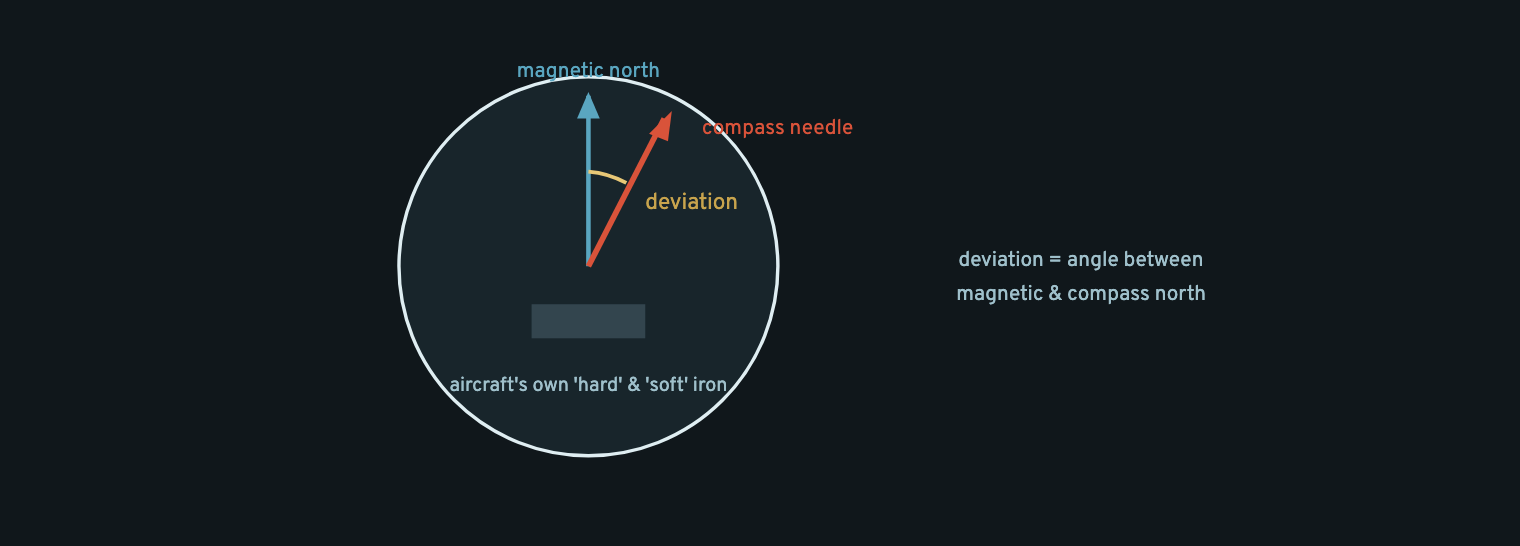
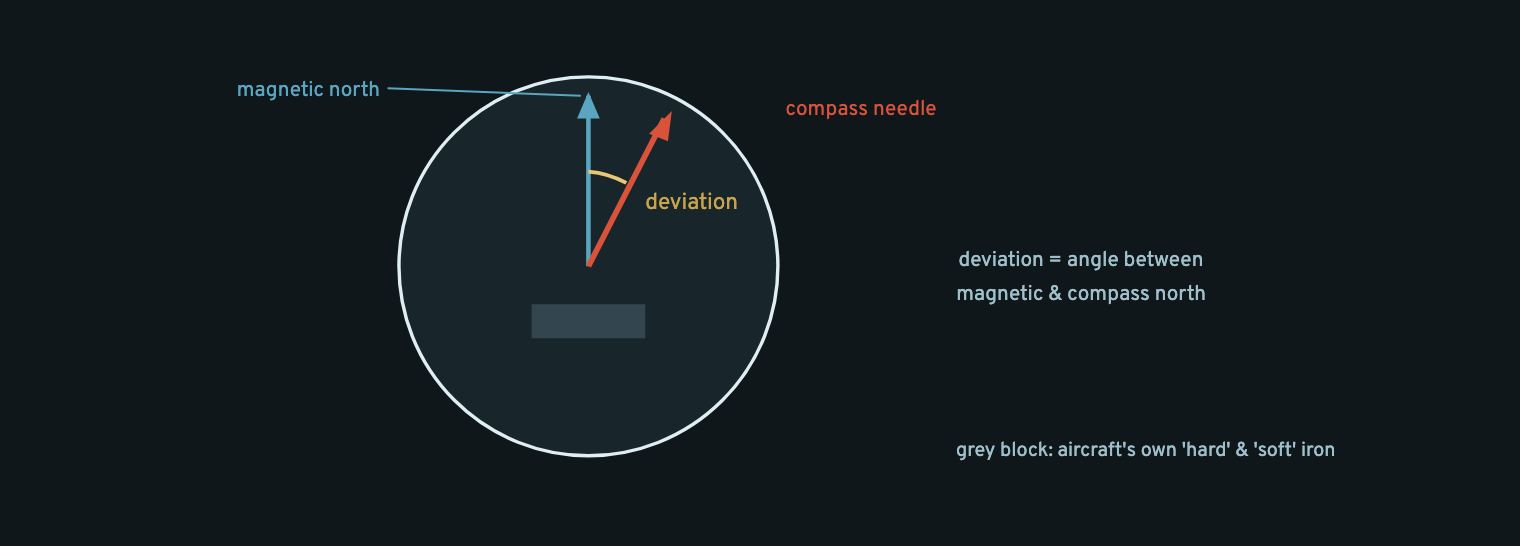
Figure QA: fix 3 cropped figures, label overlaps, unsupported glyphs, magnet field arrows and non-linear scale caption

diff --git a/illustrations/instruments-gallery.html b/illustrations/instruments-gallery.html
@@ -89,7 +89,7 @@
               t.textContent=i*10;g.appendChild(t);}}})();
         </script>
         <line x1="200" y1="150" x2="250" y2="95" stroke="var(--gold)" stroke-width="3"/><circle cx="200" cy="150" r="6" fill="var(--chart-ink)"/>
-        <text x="200" y="285" text-anchor="middle" font-family="Overpass,sans-serif" font-size="12" fill="var(--chart-ink-dim)">crowded at the low end, spread at the high end</text>
+        <text x="200" y="285" text-anchor="middle" font-family="Overpass,sans-serif" font-size="12" fill="var(--chart-ink-dim)">spread at the low end, crowded at the high end</text>
       </svg>
     </div>
     <p class="cap"><b>Non-linear scale</b> — the graduations are <b>unevenly spaced</b>, because the instrument's mechanism responds non-linearly to the quantity. The classic example is the <b>airspeed indicator</b>, which measures dynamic pressure proportional to the <b>square</b> of the speed: the low speeds are cramped together near the start and the high speeds spread out, so an ASI reads coarsely at the bottom of its range and finely at the top.</p>
@@ -517,7 +517,7 @@
     <h2>Gyro Rotor in Gimbals</h2>
     <div class="meta"><span class="tag">fig_11_04</span><span class="tag ok">Original redraw</span></div>
     <div class="stage">
-      <svg viewBox="0 0 760 300" role="img" aria-label="A spinning rotor carried in an inner and an outer gimbal, giving it freedom in two planes">
+      <svg viewBox="0 0 760 350" role="img" aria-label="A spinning rotor carried in an inner and an outer gimbal, giving it freedom in two planes"><g transform="translate(0 16)">
         <!-- outer gimbal -->
         <ellipse cx="380" cy="150" rx="150" ry="150" fill="none" stroke="var(--steel)" stroke-width="5"/>
         <circle cx="230" cy="150" r="5" fill="var(--steel)"/><circle cx="530" cy="150" r="5" fill="var(--steel)"/>
@@ -528,12 +528,12 @@
         <ellipse cx="380" cy="150" rx="26" ry="70" fill="var(--chart-ground-3)" stroke="var(--chart-ink)" stroke-width="2"/>
         <line x1="380" y1="70" x2="380" y2="230" stroke="var(--chart-ink-dim)" stroke-width="3"/>
         <g stroke="var(--chart-ink-dim)" stroke-width="1.4"><path d="M365,120 a40,40 0 0 1 30,0" fill="none"/><path d="M395,180 a40,40 0 0 1 -30,0" fill="none"/></g>
-        <text x="380" y="150" text-anchor="middle" font-family="Overpass,sans-serif" font-size="10" fill="var(--chart-ink-dim)">spin axis</text>
+        <text x="414" y="154" font-family="Overpass,sans-serif" font-size="10.5" font-weight="700" fill="var(--chart-ink-dim)">spin axis</text>
         <!-- labels, placed clear of the rings -->
-        <text x="640" y="150" text-anchor="middle" font-family="Overpass,sans-serif" font-size="11.5" fill="var(--steel)">outer gimbal</text>
+        <text x="640" y="150" text-anchor="middle" font-family="Overpass,sans-serif" font-size="11.5" fill="var(--chart-ink-dim)" font-weight="700">outer gimbal</text>
         <text x="670" y="150" text-anchor="middle" font-family="Overpass,sans-serif" font-size="11.5" fill="var(--steel)" transform="translate(0,20)"> </text>
-        <text x="380" y="286" text-anchor="middle" font-family="Overpass,sans-serif" font-size="11.5" fill="var(--gold-deep)">inner gimbal · two axes of freedom</text>
-      </svg>
+        <text x="380" y="322" text-anchor="middle" font-family="Overpass,sans-serif" font-size="11.5" fill="var(--gold-deep)">inner gimbal, two axes of freedom</text>
+      </g></svg>
     </div>
     <p class="cap"><b>Gyro in gimbals</b> — a gyroscope is a rotor spun at high speed and carried in a set of pivoted rings (<b>gimbals</b>) so the spin axis is free to hold its direction while the aircraft moves around it. The rotor sits in the <b>inner gimbal</b>, which pivots inside the <b>outer gimbal</b>, which pivots in the case — giving the spin axis <b>freedom in two planes</b>. This mounting, plus the rotor's mass and speed, gives the two properties every gyro instrument lives on: <b>rigidity</b> (it stays pointing where it was set) and <b>precession</b>.</p>
   </section>
@@ -554,7 +554,7 @@
         <text x="300" y="22" text-anchor="middle" font-family="Overpass,sans-serif" font-size="11.5" fill="var(--hot)">applied force (torque)</text>
         <!-- result: precession 90 round -->
         <line x1="348" y1="150" x2="470" y2="150" stroke="var(--gold)" stroke-width="4"/><path d="M462,144 L476,150 L462,156" fill="var(--gold)"/>
-        <text x="520" y="150" text-anchor="middle" font-family="Overpass,sans-serif" font-size="12" font-weight="600" fill="var(--gold-deep)">precesses 90° round</text>
+        <text x="590" y="150" text-anchor="middle" font-family="Overpass,sans-serif" font-size="12" font-weight="600" fill="var(--gold-deep)">precesses 90° round</text>
         <text x="520" y="170" text-anchor="middle" font-family="Overpass,sans-serif" font-size="10.5" fill="var(--chart-ink-dim)">in the direction of spin</text>
       </svg>
     </div>
@@ -571,13 +571,13 @@
         <circle cx="260" cy="160" r="110" fill="var(--chart-ground-3)" stroke="var(--chart-ink)" stroke-width="1.8"/>
         <line x1="260" y1="40" x2="260" y2="280" stroke="var(--chart-line-2)" stroke-width="1" stroke-dasharray="4 4"/>
         <path d="M300,55 a110,110 0 0 1 20,30" fill="none" stroke="var(--cool)" stroke-width="2"/><path d="M314,80 l8,8 l-12,2 Z" fill="var(--cool)"/>
-        <text x="330" y="52" font-family="Overpass,sans-serif" font-size="11" fill="var(--cool)">Earth rotates</text>
+        <text x="352" y="40" font-family="Overpass,sans-serif" font-size="11" fill="var(--cool)">Earth rotates</text>
         <!-- gyro fixed in space (two positions, same direction arrows) -->
         <g stroke="var(--gold)" stroke-width="3"><line x1="200" y1="110" x2="260" y2="110"/><line x1="470" y1="110" x2="530" y2="110"/></g>
         <path d="M252,105 L264,110 L252,115" fill="var(--gold)"/><path d="M522,105 L534,110 L522,115" fill="var(--gold)"/>
-        <text x="200" y="100" font-family="Overpass,sans-serif" font-size="10.5" fill="var(--gold-deep)">gyro axis — fixed in space</text>
+        <text x="40" y="34" font-family="Overpass,sans-serif" font-size="10.5" fill="var(--gold-deep)">gyro axis — fixed in space</text>
         <text x="470" y="100" font-family="Overpass,sans-serif" font-size="10.5" fill="var(--gold-deep)">same direction, later</text>
-        <text x="490" y="250" text-anchor="middle" font-family="Overpass,sans-serif" font-size="11" fill="var(--chart-ink-dim)">so relative to the ground it appears to drift (15°/hr × sin lat)</text>
+        <text x="530" y="250" text-anchor="middle" font-family="Overpass,sans-serif" font-size="11" fill="var(--chart-ink-dim)">so relative to the ground it appears to drift (15°/hr × sin lat)</text>
       </svg>
     </div>
     <p class="cap"><b>Apparent wander</b> — a free gyro's rigidity holds its axis fixed <b>in space</b>, not relative to the Earth. Because the Earth is turning underneath it, an observer on the ground sees the axis slowly <b>drift</b> even though the gyro itself has not moved. This <b>Earth-rate</b> drift is greatest at the poles and zero at the equator, following 15°/hour × sine of the latitude. Directional gyros are given a latitude-nut correction (or are tied to a magnetic reference) to cancel it.</p>
@@ -596,7 +596,7 @@
         <path d="M300,66 C360,40 430,44 480,78" fill="none" stroke="var(--hot)" stroke-width="2" stroke-dasharray="5 3"/><path d="M472,72 L484,80 L470,84 Z" fill="var(--hot)"/>
         <text x="250" y="40" font-family="Overpass,sans-serif" font-size="10.5" fill="var(--gold-deep)">start</text>
         <text x="500" y="56" font-family="Overpass,sans-serif" font-size="10.5" fill="var(--gold-deep)">after flying east</text>
-        <text x="380" y="266" text-anchor="middle" font-family="Overpass,sans-serif" font-size="11" fill="var(--chart-ink-dim)">the local vertical &amp; meridian change along the route → apparent wander</text>
+        <text x="545" y="220" font-family="Overpass,sans-serif" font-size="11" fill="var(--chart-ink-dim)">the local vertical &amp;</text><text x="545" y="236" font-family="Overpass,sans-serif" font-size="11" fill="var(--chart-ink-dim)">meridian change along</text><text x="545" y="252" font-family="Overpass,sans-serif" font-size="11" fill="var(--chart-ink-dim)">the route → apparent wander</text>
       </svg>
     </div>
     <p class="cap"><b>Transport wander</b> — carrying the gyro across the curved Earth is the second source of apparent wander. As the aircraft flies over the surface, the <b>local vertical and the local meridian change direction</b> underneath the (space-rigid) gyro, so its axis appears to wander relative to the new local references. It depends on groundspeed and track and, for a directional gyro, on the change of longitude. Together with Earth-rate drift it is why a DGI must be <b>re-synchronised to the compass</b> regularly.</p>
@@ -612,7 +612,7 @@
         <ellipse cx="300" cy="150" rx="90" ry="40" fill="none" stroke="var(--steel)" stroke-width="4"/>
         <ellipse cx="300" cy="150" rx="26" ry="70" fill="var(--chart-ground-3)" stroke="var(--chart-ink)" stroke-width="2"/>
         <line x1="210" y1="150" x2="390" y2="150" stroke="var(--chart-ink-dim)" stroke-width="3"/>
-        <text x="300" y="138" text-anchor="middle" font-family="Overpass,sans-serif" font-size="10" fill="var(--chart-ink-dim)">horizontal spin axis</text>
+        <text x="190" y="154" text-anchor="end" font-family="Overpass,sans-serif" font-size="10.5" font-weight="700" fill="var(--chart-ink-dim)">horizontal spin axis</text>
         <!-- heading card -->
         <rect x="520" y="90" width="150" height="120" rx="8" fill="var(--chart-ground-3)" stroke="var(--chart-ink)" stroke-width="1.8"/>
         <text x="595" y="110" text-anchor="middle" font-family="Overpass,sans-serif" font-size="13" fill="var(--chart-ink)">N</text>
@@ -693,11 +693,11 @@
         <!-- vertical-axis rotor -->
         <ellipse cx="300" cy="150" rx="70" ry="26" fill="var(--chart-ground-3)" stroke="var(--chart-ink)" stroke-width="2"/>
         <line x1="300" y1="70" x2="300" y2="150" stroke="var(--chart-ink-dim)" stroke-width="3"/>
-        <text x="300" y="60" text-anchor="middle" font-family="Overpass,sans-serif" font-size="10.5" fill="var(--chart-ink-dim)">vertical spin axis</text>
+        <text x="470" y="60" font-family="Overpass,sans-serif" font-size="10.5" font-weight="700" fill="var(--chart-ink-dim)">vertical spin axis</text><line x1="466" y1="56" x2="306" y2="64" stroke="var(--chart-ink-dim)" stroke-width="1"/>
         <!-- gimbal rings -->
         <ellipse cx="300" cy="150" rx="110" ry="100" fill="none" stroke="var(--gold-deep)" stroke-width="3"/>
         <ellipse cx="300" cy="150" rx="150" ry="130" fill="none" stroke="var(--steel)" stroke-width="3"/>
-        <text x="300" y="286" text-anchor="middle" font-family="Overpass,sans-serif" font-size="11" fill="var(--gold-deep)">gimbals follow pitch &amp; roll about the stable rotor</text>
+        <text x="590" y="280" text-anchor="middle" font-family="Overpass,sans-serif" font-size="11" fill="var(--gold-deep)">gimbals follow pitch &amp; roll</text><text x="590" y="296" text-anchor="middle" font-family="Overpass,sans-serif" font-size="11" fill="var(--gold-deep)">about the stable rotor</text>
         <!-- linkage to horizon bar -->
         <path d="M410,150 L520,150" stroke="var(--steel)" stroke-width="3"/>
         <rect x="520" y="90" width="150" height="120" rx="6" fill="var(--chart-ground-3)" stroke="var(--chart-ink)" stroke-width="1.6"/>
@@ -744,7 +744,7 @@
         <!-- fixed wall + calibrated spring restraining the gimbal -->
         <line x1="92" y1="60" x2="92" y2="150" stroke="var(--chart-line-2)" stroke-width="4"/>
         <path d="M92,96 l12,-9 l16,18 l16,-18 l16,18 l16,-18 l16,18 l10,-9" fill="none" stroke="var(--cool)" stroke-width="2.2"/>
-        <text x="150" y="80" font-family="Overpass,sans-serif" font-size="11" fill="var(--cool)">calibrated spring</text>
+        <text x="96" y="58" font-family="Overpass,sans-serif" font-size="11" font-weight="700" fill="var(--cool)">calibrated spring</text>
         <!-- single gimbal frame -->
         <rect x="210" y="58" width="160" height="166" rx="6" fill="none" stroke="var(--gold-deep)" stroke-width="5"/>
         <circle cx="290" cy="58" r="5" fill="var(--gold-deep)"/><circle cx="290" cy="224" r="5" fill="var(--gold-deep)"/>
@@ -769,7 +769,7 @@
         <line x1="290" y1="244" x2="330" y2="306" stroke="var(--gold)" stroke-width="3"/><circle cx="290" cy="244" r="4" fill="var(--chart-ink)"/>
         <text x="232" y="300" font-family="Overpass,sans-serif" font-size="12" font-weight="600" fill="var(--chart-ink-dim)">L</text>
         <text x="352" y="300" font-family="Overpass,sans-serif" font-size="12" font-weight="600" fill="var(--chart-ink-dim)">R</text>
-        <text x="560" y="312" text-anchor="middle" font-family="Overpass,sans-serif" font-size="10.5" fill="var(--chart-ink-dim)">deflection ∝ rate of turn (rate one = 3°/s)</text>
+        <text x="560" y="312" text-anchor="middle" font-family="Overpass,sans-serif" font-size="10.5" fill="var(--chart-ink-dim)">deflection proportional to rate of turn (rate one = 3°/s)</text>
       </svg>
     </div>
     <p class="cap"><b>Turn indicator</b> — a <b>rate gyro</b> that measures how fast the aircraft is yawing. The rotor is carried on a <b>single gimbal</b> restrained by a <b>spring</b>; when the aircraft turns, the yaw precesses the gyro against the spring until the spring force balances the precession. The gimbal angle — and so the needle deflection — is therefore <b>proportional to the rate of turn</b>, calibrated so a standard "rate one" turn (3° per second, a full 360° in two minutes) reads at the marked index. A separate balance ball shows slip or skid.</p>
@@ -792,11 +792,11 @@
           <path d="M330,130 C280,30 480,30 430,130"/>
           <path d="M330,170 C300,240 460,240 430,170"/>
           <path d="M330,170 C280,270 480,270 430,170"/>
-          <path d="M330,150 C230,150 230,150 150,150"/>
-          <path d="M430,150 C530,150 530,150 610,150"/>
+          <path d="M300,150 L150,150"/>
+          <path d="M460,150 L610,150"/>
         </g>
         <!-- direction arrows (out of N) -->
-        <g fill="var(--cool)"><path d="M375,46 l12,4 l-9,8 Z"/><path d="M200,144 l-12,6 l2,-14 Z"/><path d="M560,144 l12,6 l-2,-14 Z"/></g>
+        <g fill="var(--cool)"><path d="M375,46 l12,4 l-9,8 Z"/><path d="M190,150 l12,-6 l0,12 Z"/><path d="M560,150 l12,-6 l0,12 Z"/></g>
         <text x="380" y="292" text-anchor="middle" font-family="Overpass,sans-serif" font-size="11" fill="var(--chart-ink-dim)">lines of force leave the N pole, loop round and enter the S pole</text>
       </svg>
     </div>
@@ -864,7 +864,7 @@
         <text x="160" y="166" text-anchor="end" font-family="Overpass,sans-serif" font-size="10" fill="var(--cool)">(400 Hz AC in)</text>
         <!-- secondary winding (red) around the legs -->
         <g stroke="var(--hot)" stroke-width="2.2" fill="none"><path d="M360,70 q20,-8 40,0 q-20,16 -40,0 M360,94 q20,-8 40,0 q-20,16 -40,0 M360,118 q20,-8 40,0 q-20,16 -40,0 M360,142 q20,-8 40,0 q-20,16 -40,0 M360,166 q20,-8 40,0 q-20,16 -40,0"/></g>
-        <text x="420" y="150" font-family="Overpass,sans-serif" font-size="11" fill="var(--hot)">secondary (output ∝ heading)</text>
+        <text x="420" y="150" font-family="Overpass,sans-serif" font-size="11" fill="var(--hot)">secondary (output follows heading)</text>
         <!-- Earth field arrow -->
         <g stroke="var(--gold)" stroke-width="2.4" fill="none"><line x1="150" y1="230" x2="590" y2="230"/><path d="M582,225 L594,230 L582,235" fill="var(--gold)" stroke="none"/></g>
         <text x="300" y="250" text-anchor="middle" font-family="Overpass,sans-serif" font-size="11" fill="var(--gold-deep)">Earth's horizontal field threads the legs</text>
@@ -884,7 +884,7 @@
         <path d="M90,120 C180,40 270,40 360,120 C450,200 540,200 630,120 C660,96 680,88 700,84" fill="none" stroke="var(--hot)" stroke-width="2.6"/>
         <!-- null points -->
         <circle cx="90" cy="120" r="4" fill="var(--cool)"/><circle cx="360" cy="120" r="4" fill="var(--cool)"/><circle cx="630" cy="120" r="4" fill="var(--cool)"/>
-        <text x="360" y="150" text-anchor="middle" font-family="Overpass,sans-serif" font-size="10" fill="var(--cool)">null (one heading)</text>
+        <text x="360" y="174" text-anchor="middle" font-family="Overpass,sans-serif" font-size="10" fill="var(--cool)">null (one heading)</text>
         <text x="58" y="80" text-anchor="middle" font-family="Overpass,sans-serif" font-size="12" fill="var(--chart-ink-dim)" transform="rotate(-90 58 80)">signal</text>
         <text x="395" y="222" text-anchor="middle" font-family="Overpass,sans-serif" font-size="12" fill="var(--chart-ink-dim)">heading (0° → 360°)</text>
       </svg>
@@ -900,14 +900,14 @@
       <svg viewBox="0 0 760 260" role="img" aria-label="The aircraft's own magnetism deflecting the compass needle away from magnetic north">
         <circle cx="300" cy="130" r="100" fill="var(--chart-ground-3)" stroke="var(--chart-ink)" stroke-width="1.8"/>
         <!-- magnetic north direction -->
-        <line x1="300" y1="130" x2="300" y2="40" stroke="var(--cool)" stroke-width="2.4"/><path d="M294,52 L300,38 L306,52" fill="var(--cool)"/><text x="300" y="30" text-anchor="middle" font-family="Overpass,sans-serif" font-size="11" fill="var(--cool)">magnetic north</text>
+        <line x1="300" y1="130" x2="300" y2="40" stroke="var(--cool)" stroke-width="2.4"/><path d="M294,52 L300,38 L306,52" fill="var(--cool)"/><text x="190" y="40" text-anchor="end" font-family="Overpass,sans-serif" font-size="11" fill="var(--cool)">magnetic north</text><line x1="194" y1="36" x2="296" y2="40" stroke="var(--cool)" stroke-width="1"/>
         <!-- compass needle deflected -->
         <line x1="300" y1="130" x2="340" y2="52" stroke="var(--hot)" stroke-width="3"/><path d="M332,60 L344,48 L342,64 Z" fill="var(--hot)"/>
-        <text x="360" y="60" font-family="Overpass,sans-serif" font-size="11" fill="var(--hot)">compass needle</text>
+        <text x="404" y="50" font-family="Overpass,sans-serif" font-size="11" fill="var(--hot)">compass needle</text>
         <!-- deviation angle -->
         <path d="M300,80 a50,50 0 0 1 20,6" fill="none" stroke="var(--gold)" stroke-width="2"/><text x="330" y="100" font-family="Overpass,sans-serif" font-size="12" fill="var(--gold-deep)">deviation</text>
         <!-- aircraft magnetism source -->
-        <rect x="270" y="150" width="60" height="18" fill="var(--steel)"/><text x="300" y="196" text-anchor="middle" font-family="Overpass,sans-serif" font-size="10.5" fill="var(--chart-ink-dim)">aircraft's own 'hard' &amp; 'soft' iron</text>
+        <rect x="270" y="150" width="60" height="18" fill="var(--steel)"/><text x="494" y="230" font-family="Overpass,sans-serif" font-size="10.5" fill="var(--chart-ink-dim)">grey block: aircraft's own 'hard' &amp; 'soft' iron</text>
         <text x="560" y="130" text-anchor="middle" font-family="Overpass,sans-serif" font-size="11" fill="var(--chart-ink-dim)">deviation = angle between</text>
         <text x="560" y="148" text-anchor="middle" font-family="Overpass,sans-serif" font-size="11" fill="var(--chart-ink-dim)">magnetic &amp; compass north</text>
       </svg>
@@ -1010,7 +1010,7 @@
         <line x1="300" y1="190" x2="300" y2="60" stroke="var(--gold)" stroke-width="2.4"/><text x="300" y="50" text-anchor="middle" font-family="Overpass,sans-serif" font-size="10.5" fill="var(--gold-deep)">correct datum (vertical)</text>
         <!-- erection force -->
         <g stroke="var(--hot)" stroke-width="3" fill="none"><line x1="260" y1="110" x2="330" y2="110"/><path d="M322,105 L334,110 L322,115" fill="var(--hot)" stroke="none"/></g>
-        <text x="200" y="110" font-family="Overpass,sans-serif" font-size="11" fill="var(--hot)">erection force</text>
+        <text x="150" y="110" font-family="Overpass,sans-serif" font-size="11" fill="var(--hot)">erection force</text>
         <!-- precession result -->
         <path d="M360,70 q30,30 0,60" fill="none" stroke="var(--cool)" stroke-width="2.2"/><path d="M356,126 l6,12 l-14,2 Z" fill="var(--cool)"/>
         <text x="400" y="140" font-family="Overpass,sans-serif" font-size="11" fill="var(--cool)">precesses 90° → back to datum</text>

diff --git a/illustrations/ins7-gallery.html b/illustrations/ins7-gallery.html
@@ -1265,22 +1265,22 @@
     <h2>Bourdon-Tube Pressure Gauge</h2>
     <div class="meta"><span class="tag">fig_38_17</span><span class="tag ok">Original redraw</span></div>
     <div class="stage">
-      <svg viewBox="0 0 760 300" role="img" aria-label="A curved flattened Bourdon tube that straightens under pressure, moving a quadrant and pinion that turn the pointer">
-        <path d="M200,240 A120,120 0 1 1 320,120" stroke="var(--gold)" stroke-width="10" fill="none"/>
-        <path d="M200,240 A120,120 0 1 1 320,120" stroke="#10171b" stroke-width="4" fill="none"/>
-        <line x1="200.0" y1="240.0" x2="200.0" y2="280.0" stroke="var(--cool)" stroke-width="6"/>
-        <text x="210.0" y="290.0" font-family="Overpass,sans-serif" font-size="10" fill="var(--cool)" font-weight="700">pressure in</text>
-        <line x1="320.0" y1="120.0" x2="360.0" y2="150.0" stroke="var(--chart-ink)" stroke-width="2.4"/>
-        <path d="M360,150 L420,120 L420,180 Z" stroke="var(--chart-ink)" stroke-width="1.6" fill="var(--chart-ground-3)"/>
-        <circle cx="430.0" cy="150.0" r="8" fill="var(--steel)" stroke="var(--chart-ink)" stroke-width="1.6"/>
-        <line x1="430.0" y1="150.0" x2="500.0" y2="80.0" stroke="#ffffff" stroke-width="3"/>
-        <text x="176.0" y="100.0" font-family="Overpass,sans-serif" font-size="10.5" fill="var(--gold)" text-anchor="end" font-weight="700">oval-section tube</text>
-        <text x="400.0" y="210.0" font-family="Overpass,sans-serif" font-size="10" fill="var(--chart-ink)" text-anchor="middle" font-weight="700">quadrant and pinion</text>
-        <text x="510.0" y="76.0" font-family="Overpass,sans-serif" font-size="10" fill="var(--chart-ink)" font-weight="700">pointer</text>
-        <text x="540.0" y="140.0" font-family="Overpass,sans-serif" font-size="10" fill="var(--gold)" font-weight="700">Pressure straightens the</text>
-        <text x="540.0" y="154.0" font-family="Overpass,sans-serif" font-size="10" fill="var(--chart-ink-dim)">tube; the free end moves.</text>
-        <text x="540.0" y="168.0" font-family="Overpass,sans-serif" font-size="10" fill="var(--chart-ink-dim)">Used for oil and hydraulic</text>
-        <text x="540.0" y="182.0" font-family="Overpass,sans-serif" font-size="10" fill="var(--chart-ink-dim)">pressures.</text>
+      <svg viewBox="0 0 760 340" role="img" aria-label="A curved flattened Bourdon tube that straightens under pressure, moving a quadrant and pinion that turn the pointer">
+        <path d="M200,280 A120,120 0 1 1 320,160" stroke="var(--gold)" stroke-width="10" fill="none"/>
+        <path d="M200,280 A120,120 0 1 1 320,160" stroke="#10171b" stroke-width="4" fill="none"/>
+        <line x1="200.0" y1="280.0" x2="200.0" y2="316.0" stroke="var(--cool)" stroke-width="6"/>
+        <text x="210.0" y="328.0" font-family="Overpass,sans-serif" font-size="10" fill="var(--cool)" font-weight="700">pressure in</text>
+        <line x1="320.0" y1="160.0" x2="360.0" y2="190.0" stroke="var(--chart-ink)" stroke-width="2.4"/>
+        <path d="M360,190 L420,160 L420,220 Z" stroke="var(--chart-ink)" stroke-width="1.6" fill="var(--chart-ground-3)"/>
+        <circle cx="430.0" cy="190.0" r="8" fill="var(--steel)" stroke="var(--chart-ink)" stroke-width="1.6"/>
+        <line x1="430.0" y1="190.0" x2="500.0" y2="120.0" stroke="#ffffff" stroke-width="3"/>
+        <text x="70.0" y="140.0" font-family="Overpass,sans-serif" font-size="10.5" fill="var(--gold)" font-weight="700">oval-section tube</text>
+        <text x="400.0" y="250.0" font-family="Overpass,sans-serif" font-size="10" fill="var(--chart-ink)" text-anchor="middle" font-weight="700">quadrant and pinion</text>
+        <text x="510.0" y="116.0" font-family="Overpass,sans-serif" font-size="10" fill="var(--chart-ink)" font-weight="700">pointer</text>
+        <text x="540.0" y="180.0" font-family="Overpass,sans-serif" font-size="10" fill="var(--gold)" font-weight="700">Pressure straightens the</text>
+        <text x="540.0" y="194.0" font-family="Overpass,sans-serif" font-size="10" fill="var(--chart-ink-dim)">tube; the free end moves.</text>
+        <text x="540.0" y="208.0" font-family="Overpass,sans-serif" font-size="10" fill="var(--chart-ink-dim)">Used for oil and hydraulic</text>
+        <text x="540.0" y="222.0" font-family="Overpass,sans-serif" font-size="10" fill="var(--chart-ink-dim)">pressures.</text>
       </svg>
     </div>
     <p class="cap"><b>Measuring high pressures.</b> A <b>Bourdon tube</b> is a curved tube of <b>oval (flattened) section</b>, sealed at the free end. Pressure inside tries to make the section round, which <b>straightens</b> the curve; the free end moves, and a <b>quadrant and pinion</b> magnify the motion to turn the pointer. It is robust and suits higher pressures — oil, hydraulic, oxygen — while capsules suit low pressures (manifold, altimeter). Measured relative to the case (gauge pressure).</p>

diff --git a/illustrations/el2-gallery.html b/illustrations/el2-gallery.html
@@ -1139,8 +1139,15 @@
         <circle cx="240.0" cy="170.0" r="34" fill="var(--steel)" stroke="var(--chart-ink)" stroke-width="1.6"/>
         <text x="240.0" y="174.0" font-family="Overpass,sans-serif" font-size="9" fill="var(--chart-ink)" text-anchor="middle">core</text>
         <rect x="186.0" y="124.0" width="108.0" height="92.0" rx="6" fill="none" stroke="var(--warm)" stroke-width="3"/>
-        <line x1="240.0" y1="170.0" x2="270.0" y2="20.0" stroke="#ffffff" stroke-width="2.4"/>
-        <path d="M120,20 A170,170 0 0 1 360,20" stroke="var(--chart-ink)" stroke-width="1.4" fill="none"/>
+        <path d="M134,64 A150,150 0 0 1 346,64" stroke="var(--chart-ink)" stroke-width="1.6" fill="none"/>
+        <line x1="133.9" y1="63.9" x2="141.0" y2="71.0" stroke="var(--chart-ink)" stroke-width="1.6"/>
+        <line x1="165.0" y1="40.1" x2="170.0" y2="48.8" stroke="var(--chart-ink)" stroke-width="1.6"/>
+        <line x1="201.2" y1="25.1" x2="203.8" y2="34.8" stroke="var(--chart-ink)" stroke-width="1.6"/>
+        <line x1="240.0" y1="20.0" x2="240.0" y2="30.0" stroke="var(--chart-ink)" stroke-width="1.6"/>
+        <line x1="278.8" y1="25.1" x2="276.2" y2="34.8" stroke="var(--chart-ink)" stroke-width="1.6"/>
+        <line x1="315.0" y1="40.1" x2="310.0" y2="48.8" stroke="var(--chart-ink)" stroke-width="1.6"/>
+        <line x1="346.1" y1="63.9" x2="339.0" y2="71.0" stroke="var(--chart-ink)" stroke-width="1.6"/>
+        <line x1="240.0" y1="170.0" x2="269.1" y2="33.1" stroke="#ffffff" stroke-width="2.4"/>
         <text x="390.0" y="70.0" font-family="Overpass,sans-serif" font-size="10" fill="var(--chart-ink)" font-weight="700">pointer over a linear scale</text>
         <path d="M230,222 q-6,6 0,12 q6,6 0,12 q-6,6 0,12" stroke="var(--gold)" stroke-width="1.6" fill="none"/>
         <text x="250.0" y="254.0" font-family="Overpass,sans-serif" font-size="9.5" fill="var(--gold)">hairspring</text>

diff --git a/illustrations/gen_ins7.py b/illustrations/gen_ins7.py
@@ -302,13 +302,13 @@ f.L(580, 140, 700, 140, 'cool', 4); f.T(700, 130, 'to the manifold', 10, 'cool',
 note(f, 420, 230, ['Engine stopped: reads ambient (≈ 30 inHg at MSL).'], first='ink')
 IN.append(f)
 
-f = I('38_17', 'Bourdon-Tube Pressure Gauge', 760, 300, 'A curved flattened Bourdon tube that straightens under pressure, moving a quadrant and pinion that turn the pointer',
+f = I('38_17', 'Bourdon-Tube Pressure Gauge', 760, 340, 'A curved flattened Bourdon tube that straightens under pressure, moving a quadrant and pinion that turn the pointer',
     '<b>Measuring high pressures.</b> A <b>Bourdon tube</b> is a curved tube of <b>oval (flattened) section</b>, sealed at the free end. Pressure inside tries to make the section round, which <b>straightens</b> the curve; the free end moves, and a <b>quadrant and pinion</b> magnify the motion to turn the pointer. It is robust and suits higher pressures — oil, hydraulic, oxygen — while capsules suit low pressures (manifold, altimeter). Measured relative to the case (gauge pressure).')
-f.P('M200,240 A120,120 0 1 1 320,120', 'gold', 10); f.P('M200,240 A120,120 0 1 1 320,120', '#10171b', 4)
-f.L(200, 240, 200, 280, 'cool', 6); f.T(210, 290, 'pressure in', 10, 'cool', bold=True)
-f.L(320, 120, 360, 150, 'ink', 2.4); f.P('M360,150 L420,120 L420,180 Z', 'ink', 1.6, 'g3'); f.Ci(430, 150, 8, 'ink', 1.6, 'steel')
-f.L(430, 150, 500, 80, 'white', 3); f.T(176, 100, 'oval-section tube', 10.5, 'gold', 'end', bold=True); f.T(400, 210, 'quadrant and pinion', 10, 'ink', 'middle', bold=True); f.T(510, 76, 'pointer', 10, 'ink', bold=True)
-note(f, 540, 140, ['Pressure straightens the', 'tube; the free end moves.', 'Used for oil and hydraulic', 'pressures.'], first='gold')
+f.P('M200,280 A120,120 0 1 1 320,160', 'gold', 10); f.P('M200,280 A120,120 0 1 1 320,160', '#10171b', 4)
+f.L(200, 280, 200, 316, 'cool', 6); f.T(210, 328, 'pressure in', 10, 'cool', bold=True)
+f.L(320, 160, 360, 190, 'ink', 2.4); f.P('M360,190 L420,160 L420,220 Z', 'ink', 1.6, 'g3'); f.Ci(430, 190, 8, 'ink', 1.6, 'steel')
+f.L(430, 190, 500, 120, 'white', 3); f.T(70, 140, 'oval-section tube', 10.5, 'gold', bold=True); f.T(400, 250, 'quadrant and pinion', 10, 'ink', 'middle', bold=True); f.T(510, 116, 'pointer', 10, 'ink', bold=True)
+note(f, 540, 180, ['Pressure straightens the', 'tube; the free end moves.', 'Used for oil and hydraulic', 'pressures.'], first='gold')
 IN.append(f)
 
 f = I('38_03', 'Torquemeter', 760, 300, 'A hydraulic torquemeter in a turboprop reduction gearbox where helical gear thrust is balanced by oil pressure in pistons, the oil pressure indicating torque',

diff --git a/illustrations/gen_el2.py b/illustrations/gen_el2.py
@@ -356,7 +356,9 @@ f.P(f'M{cx-110},{cy-80} L{cx-60},{cy-80} A70,70 0 0 0 {cx-60},{cy+80} L{cx-110},
 f.P(f'M{cx+110},{cy-80} L{cx+60},{cy-80} A70,70 0 0 1 {cx+60},{cy+80} L{cx+110},{cy+80} Z', 'ink', 1.6, 'cool'); f.T(cx + 92, cy + 4, 'S', 16, 'white', 'middle', bold=True, check=False)
 f.Ci(cx, cy, 34, 'ink', 1.6, 'steel'); f.T(cx, cy + 4, 'core', 9, 'ink', 'middle', check=False)
 f.R(cx - 54, cy - 46, 108, 92, c='warm', sw=3, fill='none', rx=6)
-f.L(cx, cy, cx + 30, cy - 150, 'white', 2.4); f.P(f'M{cx-120},{cy-150} A170,170 0 0 1 {cx+120},{cy-150}', 'ink', 1.4)
+f.P(f'M{cx-106},{cy-106} A150,150 0 0 1 {cx+106},{cy-106}', 'ink', 1.6)
+for k in range(-45, 46, 15): p_, q_ = pol(cx, cy, 150, k), pol(cx, cy, 140, k); f.L(p_[0], p_[1], q_[0], q_[1], 'ink', 1.6)
+f.L(cx, cy, cx + 140 * math.sin(math.radians(12)), cy - 140 * math.cos(math.radians(12)), 'white', 2.4)
 f.T(cx + 150, cy - 100, 'pointer over a linear scale', 10, 'ink', bold=True)
 f.P(f'M{cx-10},{cy+52} q-6,6 0,12 q6,6 0,12 q-6,6 0,12', 'gold', 1.6); f.T(cx + 10, cy + 84, 'hairspring', 9.5, 'gold')
 f.T(cx + 150, cy - 30, 'moving coil', 10, 'warm', bold=True); f.L(cx + 146, cy - 34, cx + 54, cy - 30, 'dim', 1)
